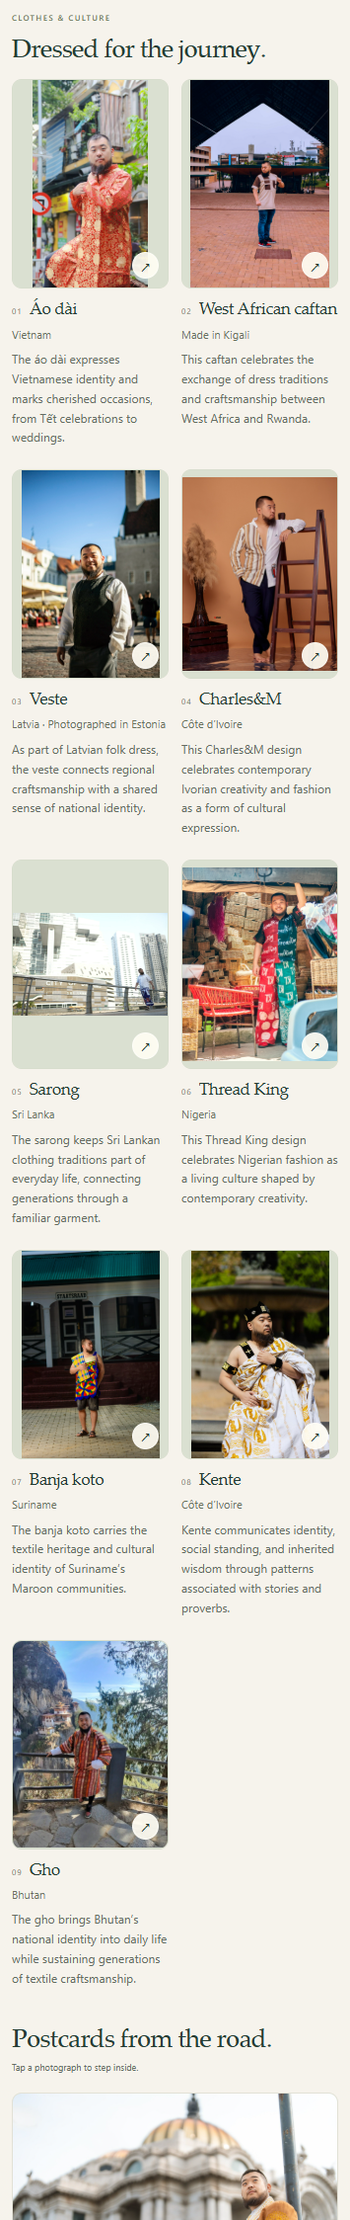
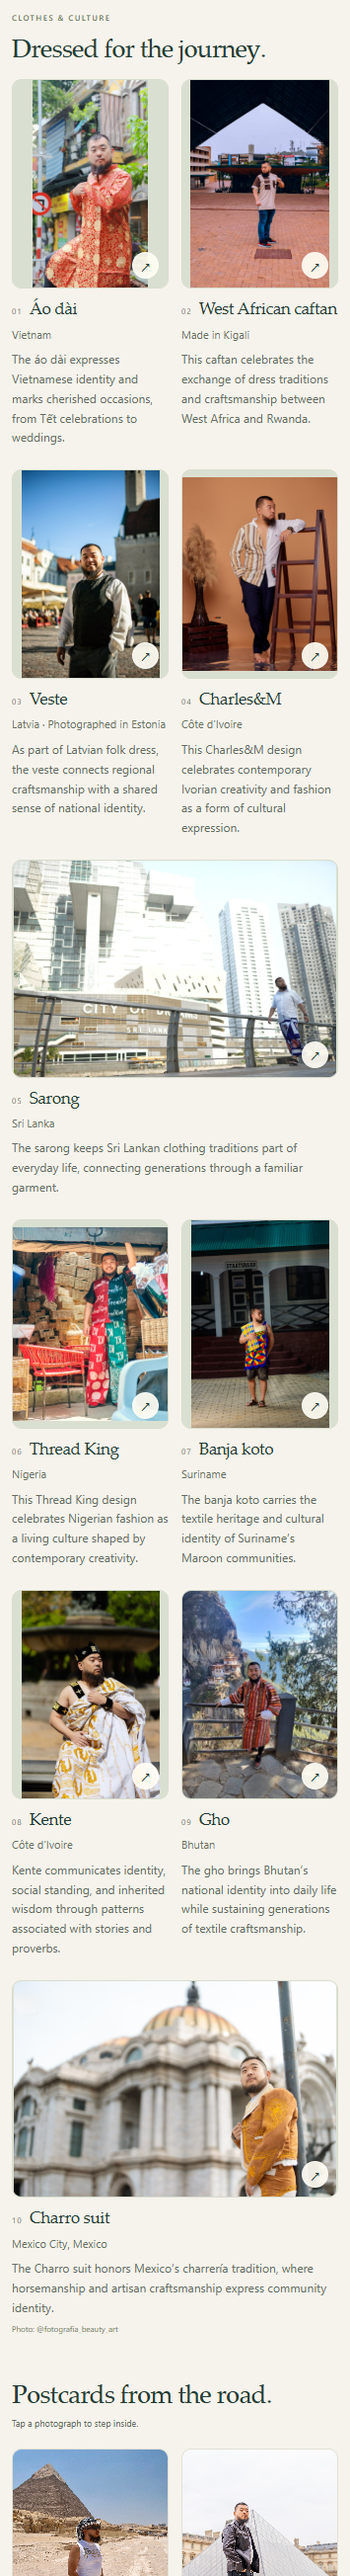
Move Charro portrait into clothing gallery and widen landscape photos

diff --git a/index.html b/index.html
@@ -122,7 +122,7 @@
 <span class="culture-image image-frame"><span aria-hidden="true" class="image-placeholder">04</span><img alt="JiaJie in a white and striped Charles&amp;M outfit, leaning on a wooden ladder in a studio." decoding="async" height="3125" loading="lazy" src="assets/culture/cultural-appreciation-04.jpg" width="2500"/><span aria-hidden="true" class="photo-expand">↗</span></span>
 <span class="culture-caption"><span class="culture-index" aria-hidden="true">04</span><strong>Charles&amp;M</strong></span>
 </a><figcaption class="culture-details"><p class="culture-location">Côte d’Ivoire</p><p class="culture-description">This Charles&amp;M design celebrates contemporary Ivorian creativity and fashion as a form of cultural expression.</p></figcaption></figure>
-<figure class="culture-card">
+<figure class="culture-card culture-card-wide">
 <a class="culture-open" href="assets/culture/cultural-appreciation-05.jpg" rel="noopener noreferrer" target="_blank" aria-label="Open Sarong · Sri Lanka">
 <span class="culture-image image-frame"><span aria-hidden="true" class="image-placeholder">05</span><img alt="JiaJie in a white shirt and patterned sarong beside a railing, with contemporary buildings behind him." decoding="async" height="1667" loading="lazy" src="assets/culture/cultural-appreciation-05.jpg" width="2500"/><span aria-hidden="true" class="photo-expand">↗</span></span>
 <span class="culture-caption"><span class="culture-index" aria-hidden="true">05</span><strong>Sarong</strong></span>
@@ -147,9 +147,14 @@
 <span class="culture-image image-frame"><span aria-hidden="true" class="image-placeholder">09</span><img alt="JiaJie in a striped gho by a mountain overlook in Bhutan, with buildings on the cliff behind him." decoding="async" height="3334" loading="lazy" src="assets/culture/cultural-appreciation-09.jpg" width="2500"/><span aria-hidden="true" class="photo-expand">↗</span></span>
 <span class="culture-caption"><span class="culture-index" aria-hidden="true">09</span><strong>Gho</strong></span>
 </a><figcaption class="culture-details"><p class="culture-location">Bhutan</p><p class="culture-description">The gho brings Bhutan’s national identity into daily life while sustaining generations of textile craftsmanship.</p></figcaption></figure>
+<figure class="culture-card culture-card-wide">
+<a class="culture-open" href="assets/culture/charro-suit-mexico.jpg" rel="noopener noreferrer" target="_blank" aria-label="Open Charro suit · Mexico City, Mexico">
+<span class="culture-image image-frame"><span aria-hidden="true" class="image-placeholder">10</span><img alt="JiaJie in a Charro suit in Mexico City, with the Palacio de Bellas Artes in the background." decoding="async" height="667" loading="lazy" src="assets/culture/charro-suit-mexico.jpg" width="1000"/><span aria-hidden="true" class="photo-expand">↗</span></span>
+<span class="culture-caption"><span class="culture-index" aria-hidden="true">10</span><strong>Charro suit</strong></span>
+</a><figcaption class="culture-details"><p class="culture-location">Mexico City, Mexico</p><p class="culture-description">The Charro suit honors Mexico’s charrería tradition, where horsemanship and artisan craftsmanship express community identity.</p><p class="photo-credit">Photo: <a href="https://www.instagram.com/fotografia_beauty_art/" rel="noopener noreferrer" target="_blank">@fotografia_beauty_art</a></p></figcaption></figure>
 </div></section>
 <div class="postcards-heading"><h3>Postcards from the road.</h3><span>Tap a photograph to step inside.</span></div>
-<div class="postcards-grid" id="travel-photos"><figure class="postcard postcard-wide"><a class="postcard-open" href="assets/postcards/mexico-city.jpg" rel="noopener noreferrer" target="_blank"><span class="postcard-image image-frame"><span aria-hidden="true" class="image-placeholder">Mexico City</span><img alt="Travel portrait in Mexico City, with the Palacio de Bellas Artes in the background." decoding="async" height="667" loading="lazy" src="assets/postcards/mexico-city.jpg" width="1000"/><span aria-hidden="true" class="photo-expand">↗</span></span><span class="postcard-caption"><strong>Mexico City, Mexico</strong><span>December 2024</span></span></a><figcaption class="photo-credit">Photo: <a href="https://www.instagram.com/fotografia_beauty_art/" rel="noopener noreferrer" target="_blank">@fotografia_beauty_art</a></figcaption></figure><figure class="postcard"><a class="postcard-open" href="assets/postcards/cairo.jpg" rel="noopener noreferrer" target="_blank"><span class="postcard-image image-frame"><span aria-hidden="true" class="image-placeholder">Cairo</span><img alt="Travel photograph near a pyramid in Egypt." decoding="async" height="1000" loading="lazy" src="assets/postcards/cairo.jpg" width="667"/><span aria-hidden="true" class="photo-expand">↗</span></span><span class="postcard-caption"><strong>Cairo, Egypt</strong><span>September 2024</span></span></a></figure><figure class="postcard"><a class="postcard-open" href="assets/postcards/paris.jpg" rel="noopener noreferrer" target="_blank"><span class="postcard-image image-frame"><span aria-hidden="true" class="image-placeholder">Paris</span><img alt="Travel portrait beside the Louvre pyramid in Paris." decoding="async" height="1000" loading="lazy" src="assets/postcards/paris.jpg" width="800"/><span aria-hidden="true" class="photo-expand">↗</span></span><span class="postcard-caption"><strong>Paris, France</strong><span>September 2022</span></span></a><figcaption class="photo-credit">Photo: <a href="https://www.instagram.com/fotografaemparis.jb/" rel="noopener noreferrer" target="_blank">@fotografaemparis.jb</a></figcaption></figure><figure class="postcard"><a class="postcard-open" href="assets/postcards/prague.jpg" rel="noopener noreferrer" target="_blank"><span class="postcard-image image-frame"><span aria-hidden="true" class="image-placeholder">Prague</span><img alt="Travel portrait on a cobbled street in Prague." decoding="async" height="1000" loading="lazy" src="assets/postcards/prague.jpg" width="667"/><span aria-hidden="true" class="photo-expand">↗</span></span><span class="postcard-caption"><strong>Prague, Czech Republic</strong><span>July 2024</span></span></a><figcaption class="photo-credit">Photo: <a href="https://www.instagram.com/pragueful/" rel="noopener noreferrer" target="_blank">@pragueful</a></figcaption></figure><figure class="postcard"><a class="postcard-open" href="assets/postcards/mombasa.jpg" rel="noopener noreferrer" target="_blank"><span class="postcard-image image-frame"><span aria-hidden="true" class="image-placeholder">Mombasa</span><img alt="Travel photograph on a sunny street in Mombasa." decoding="async" height="1000" loading="lazy" src="assets/postcards/mombasa.jpg" width="753"/><span aria-hidden="true" class="photo-expand">↗</span></span><span class="postcard-caption"><strong>Mombasa, Kenya</strong><span>November 2024</span></span></a></figure><figure class="postcard"><a class="postcard-open" href="assets/postcards/istanbul.jpg" rel="noopener noreferrer" target="_blank"><span class="postcard-image image-frame"><span aria-hidden="true" class="image-placeholder">Istanbul</span><img alt="Travel portrait by the waterfront in Istanbul." decoding="async" height="1000" loading="lazy" src="assets/postcards/istanbul.jpg" width="667"/><span aria-hidden="true" class="photo-expand">↗</span></span><span class="postcard-caption"><strong>Istanbul, Turkey</strong><span>August 2024</span></span></a></figure><figure class="postcard"><a class="postcard-open" href="assets/postcards/venice.jpg" rel="noopener noreferrer" target="_blank"><span class="postcard-image image-frame"><span aria-hidden="true" class="image-placeholder">Venice</span><img alt="Travel portrait beside a canal and bridge in Venice." decoding="async" height="1000" loading="lazy" src="assets/postcards/venice.jpg" width="667"/><span aria-hidden="true" class="photo-expand">↗</span></span><span class="postcard-caption"><strong>Venice, Italy</strong><span>July 2024</span></span></a></figure><figure class="postcard"><a class="postcard-open" href="assets/postcards/singapore.jpg" rel="noopener noreferrer" target="_blank"><span class="postcard-image image-frame"><span aria-hidden="true" class="image-placeholder">Singapore</span><img alt="Travel portrait beneath the Supertrees in Singapore." decoding="async" height="1000" loading="lazy" src="assets/postcards/singapore.jpg" width="667"/><span aria-hidden="true" class="photo-expand">↗</span></span><span class="postcard-caption"><strong>Singapore</strong><span>October 2024</span></span></a></figure></div>
+<div class="postcards-grid" id="travel-photos"><figure class="postcard"><a class="postcard-open" href="assets/postcards/cairo.jpg" rel="noopener noreferrer" target="_blank"><span class="postcard-image image-frame"><span aria-hidden="true" class="image-placeholder">Cairo</span><img alt="Travel photograph near a pyramid in Egypt." decoding="async" height="1000" loading="lazy" src="assets/postcards/cairo.jpg" width="667"/><span aria-hidden="true" class="photo-expand">↗</span></span><span class="postcard-caption"><strong>Cairo, Egypt</strong><span>September 2024</span></span></a></figure><figure class="postcard"><a class="postcard-open" href="assets/postcards/paris.jpg" rel="noopener noreferrer" target="_blank"><span class="postcard-image image-frame"><span aria-hidden="true" class="image-placeholder">Paris</span><img alt="Travel portrait beside the Louvre pyramid in Paris." decoding="async" height="1000" loading="lazy" src="assets/postcards/paris.jpg" width="800"/><span aria-hidden="true" class="photo-expand">↗</span></span><span class="postcard-caption"><strong>Paris, France</strong><span>September 2022</span></span></a><figcaption class="photo-credit">Photo: <a href="https://www.instagram.com/fotografaemparis.jb/" rel="noopener noreferrer" target="_blank">@fotografaemparis.jb</a></figcaption></figure><figure class="postcard"><a class="postcard-open" href="assets/postcards/prague.jpg" rel="noopener noreferrer" target="_blank"><span class="postcard-image image-frame"><span aria-hidden="true" class="image-placeholder">Prague</span><img alt="Travel portrait on a cobbled street in Prague." decoding="async" height="1000" loading="lazy" src="assets/postcards/prague.jpg" width="667"/><span aria-hidden="true" class="photo-expand">↗</span></span><span class="postcard-caption"><strong>Prague, Czech Republic</strong><span>July 2024</span></span></a><figcaption class="photo-credit">Photo: <a href="https://www.instagram.com/pragueful/" rel="noopener noreferrer" target="_blank">@pragueful</a></figcaption></figure><figure class="postcard"><a class="postcard-open" href="assets/postcards/mombasa.jpg" rel="noopener noreferrer" target="_blank"><span class="postcard-image image-frame"><span aria-hidden="true" class="image-placeholder">Mombasa</span><img alt="Travel photograph on a sunny street in Mombasa." decoding="async" height="1000" loading="lazy" src="assets/postcards/mombasa.jpg" width="753"/><span aria-hidden="true" class="photo-expand">↗</span></span><span class="postcard-caption"><strong>Mombasa, Kenya</strong><span>November 2024</span></span></a></figure><figure class="postcard"><a class="postcard-open" href="assets/postcards/istanbul.jpg" rel="noopener noreferrer" target="_blank"><span class="postcard-image image-frame"><span aria-hidden="true" class="image-placeholder">Istanbul</span><img alt="Travel portrait by the waterfront in Istanbul." decoding="async" height="1000" loading="lazy" src="assets/postcards/istanbul.jpg" width="667"/><span aria-hidden="true" class="photo-expand">↗</span></span><span class="postcard-caption"><strong>Istanbul, Turkey</strong><span>August 2024</span></span></a></figure><figure class="postcard"><a class="postcard-open" href="assets/postcards/venice.jpg" rel="noopener noreferrer" target="_blank"><span class="postcard-image image-frame"><span aria-hidden="true" class="image-placeholder">Venice</span><img alt="Travel portrait beside a canal and bridge in Venice." decoding="async" height="1000" loading="lazy" src="assets/postcards/venice.jpg" width="667"/><span aria-hidden="true" class="photo-expand">↗</span></span><span class="postcard-caption"><strong>Venice, Italy</strong><span>July 2024</span></span></a></figure><figure class="postcard"><a class="postcard-open" href="assets/postcards/singapore.jpg" rel="noopener noreferrer" target="_blank"><span class="postcard-image image-frame"><span aria-hidden="true" class="image-placeholder">Singapore</span><img alt="Travel portrait beneath the Supertrees in Singapore." decoding="async" height="1000" loading="lazy" src="assets/postcards/singapore.jpg" width="667"/><span aria-hidden="true" class="photo-expand">↗</span></span><span class="postcard-caption"><strong>Singapore</strong><span>October 2024</span></span></a></figure></div>
 <div class="travel-sentinel" hidden="" id="travel-sentinel"><button class="quiet-button" id="load-more-photos" type="button">A few more places <span aria-hidden="true">↓</span></button><span aria-live="polite" class="sr-only" id="travel-load-status" role="status"></span></div>
 <div class="travel-endnote"><span aria-hidden="true" class="note-star">✳</span><p>The map keeps growing. So do I.</p><a href="https://www.instagram.com/life_of_jiajie/" id="travel-instagram" rel="noopener noreferrer" target="_blank">More on Instagram <span aria-hidden="true">↗</span></a></div>
 </section>

diff --git a/site-config.js b/site-config.js
@@ -164,7 +164,8 @@ window.JIAJIE_SITE = {
         "title": "Sarong",
         "alt": "JiaJie in a white shirt and patterned sarong beside a railing, with contemporary buildings behind him.",
         "location": "Sri Lanka",
-        "caption": "The sarong keeps Sri Lankan clothing traditions part of everyday life, connecting generations through a familiar garment."
+        "caption": "The sarong keeps Sri Lankan clothing traditions part of everyday life, connecting generations through a familiar garment.",
+        "wide": true
       },
       {
         "id": "culture-06",
@@ -205,6 +206,20 @@ window.JIAJIE_SITE = {
         "alt": "JiaJie in a striped gho by a mountain overlook in Bhutan, with buildings on the cliff behind him.",
         "location": "Bhutan",
         "caption": "The gho brings Bhutan’s national identity into daily life while sustaining generations of textile craftsmanship."
+      },
+      {
+        "id": "culture-10",
+        "title": "Charro suit",
+        "date": "December 2024",
+        "src": "assets/culture/charro-suit-mexico.jpg",
+        "alt": "JiaJie in a Charro suit in Mexico City, with the Palacio de Bellas Artes in the background.",
+        "width": 1000,
+        "height": 667,
+        "credit": "@fotografia_beauty_art",
+        "creditUrl": "https://www.instagram.com/fotografia_beauty_art/",
+        "location": "Mexico City, Mexico",
+        "caption": "The Charro suit honors Mexico’s charrería tradition, where horsemanship and artisan craftsmanship express community identity.",
+        "wide": true
       }
     ]
   },
@@ -232,18 +247,6 @@ window.JIAJIE_SITE = {
     "initialPhotos": 5,
     "batchSize": 3,
     "photos": [
-      {
-        "id": "mexico-city",
-        "title": "Mexico City, Mexico",
-        "date": "December 2024",
-        "src": "assets/postcards/mexico-city.jpg",
-        "alt": "Travel portrait in Mexico City, with the Palacio de Bellas Artes in the background.",
-        "width": 1000,
-        "height": 667,
-        "credit": "fotografia_beauty_art",
-        "creditUrl": "https://www.instagram.com/fotografia_beauty_art/",
-        "wide": true
-      },
       {
         "id": "cairo",
         "title": "Cairo, Egypt",

diff --git a/scroll.css b/scroll.css
@@ -67,9 +67,11 @@ html { scroll-behavior: smooth; scroll-padding-top: 118px; }
 .culture-heading > p { max-width: 285px; margin: 0; color: var(--muted); font-size: 11px; line-height: 1.7; }
 .culture-grid { display: grid; grid-template-columns: repeat(3,minmax(0,1fr)); gap: 28px 20px; }
 .culture-card { margin: 0; min-width: 0; }
+.culture-card-wide { grid-column: span 2; }
 .culture-open { display: block; }
 .culture-image { display: block; aspect-ratio: 3 / 4; border-radius: 13px; background: #e0e4d7; border: 1px solid #d7ddcd; transition: border-color .2s, box-shadow .2s; }
 .culture-image img { width: 100%; height: 100%; object-fit: contain; }
+.culture-card-wide .culture-image { aspect-ratio: 3 / 2; }
 .culture-image .image-placeholder { font: italic 28px var(--serif); color: #6f7f66; }
 .culture-open:hover .culture-image { border-color: #96a187; box-shadow: 0 6px 18px -12px #243e3380; }
 .culture-caption { display: flex; align-items: baseline; gap: 10px; margin-top: 11px; }

diff --git a/app.js b/app.js
@@ -559,7 +559,7 @@
 
   function makeCultureCard(photo, index) {
     const title = photo.title || `Photograph ${index + 1}`;
-    const figure = element("figure", "culture-card");
+    const figure = element("figure", `culture-card${photo.wide ? " culture-card-wide" : ""}`);
     const link = outgoingLink(imageURL(photo.src), undefined, "culture-open");
     link.setAttribute("aria-haspopup", "dialog");
     link.setAttribute("aria-controls", "gallery-dialog");

diff --git a/README.md b/README.md
@@ -8,7 +8,7 @@ A static, two-page personal website. No framework, package install, backend, or 
 - Music and Boys Like Us Season 2 sit together in the welcome section, side by side on desktop and stacked on mobile.
 - The film still opens a dialog with project details and the three supplied production photographs.
 - The story timeline, travel map, progressively loaded travel gallery, music player, and contact links remain.
-- “Dressed for the journey.” appears directly above the postcards with garment names, places, and the owner-approved captions about cultural significance, preserving all nine photographs from the original “Call me cultural connoisseur” section in their original order. The photographs open in the shared viewer and have local HTML fallbacks.
+- “Dressed for the journey.” appears directly above the postcards with garment names, places, and the owner-approved captions about cultural significance, preserving all nine photographs from the original “Call me cultural connoisseur” section in their original order and adding the Mexico City Charro suit portrait from the postcards. The landscape sarong and Charro suit photographs span two columns; all photographs open in the shared viewer and have local HTML fallbacks.
 - A small, image-free “Not safe for work photos” card appears after the travel section. The Photos navigation item leads to it.
 - The card opens an explicit 18+ content warning. Approval navigates to `bodypositive.html` on the same website, not back to the former website.
 - The separate gallery references the 19 images on the original Body Positive page, preserving available shoot dates and photographer credits. No unprovided dates or photographer names were added.
@@ -32,7 +32,7 @@ All images are bundled locally and organized by the part of the site that uses t
 ```text
 assets/
   bodypositive/  Gallery photographs, named by session and photo number
-  culture/       Nine clothing photographs in “Dressed for the journey.”
+  culture/       Ten clothing photographs in “Dressed for the journey.”
   postcards/     Travel photographs named by destination, plus travel-map.png
   movie/         Boys Like Us production photographs and small thumbnails
   music/         Release artwork

diff --git a/SOURCES.md b/SOURCES.md
@@ -32,3 +32,5 @@ The owner reviewed and approved the exact caption wording before publication. Ch
 - Gho: Bhutan Department of Tourism — https://bhutan.travel/journal/editorial/cultural-fabric
 
 These links document the writing; no third-party resource is downloaded by the gallery.
+
+The Mexico City portrait was moved from postcards to “Dressed for the journey.” as the tenth photograph at the owner's request, identifying the outfit as a Charro suit. The original image bytes are preserved at `assets/culture/charro-suit-mexico.jpg`; the December 2024 date and photographer credit @fotografia_beauty_art (https://www.instagram.com/fotografia_beauty_art/) were retained from the existing postcard metadata. No clothing designer was supplied for this photograph. The caption summarizes the relationship between charrería, community identity, and local craftsmanship documented by UNESCO: https://ich.unesco.org/en/RL/charreria-equestrian-tradition-in-mexico-01108 .
